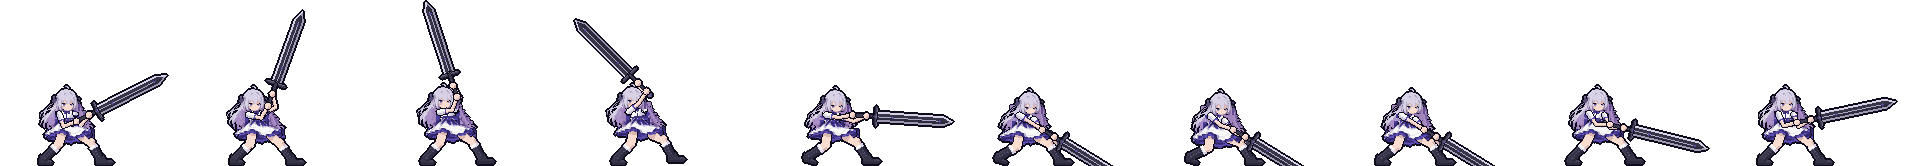
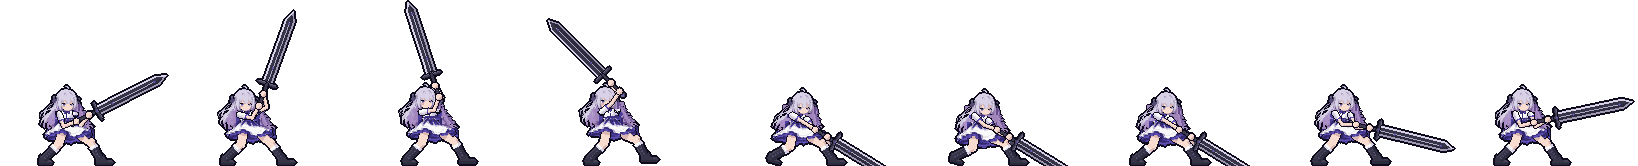
Motion-blur arc on the impact frame; remove the chop frame
User request. The impact frame now carries the smear swept from the
high guard, and the separate chop frame is gone (9 frames). README
table and docs previews updated. All checks and tests pass.

Claude-Session: https://claude.ai/code/session_01JHUM6eCZeNg5SQsGEDiuQ7

Changed region(s): [[0.2179, 0.0, 1.0, 1.0], [0.0, 0.0602, 0.1868, 1.0]]

diff --git a/swingkit/anim.py b/swingkit/anim.py
@@ -1,10 +1,10 @@
-"""Pose specifications for the 10-frame overhead chop and the character renderer.
+"""Pose specifications for the 9-frame overhead chop and the character renderer.
 
 Structure (user request, 2026-09-28):
   1 plow (Pflug guard, held) | 2-3 raise the sword | 4 high guard (held, glint) |
-  5 chop: one fast frame with a motion-blur smear | 6 impact: steady, unblurred low point with
-  flash, dirt eruption and camera shake | 7-8 debris settles while the pose holds |
-  9-10 pull the blade free and return to plow (loops to frame 1).
+  5 impact: the low point with the motion-blur arc from the high guard, flash, dirt eruption and
+  camera shake | 6-7 debris settles while the pose holds | 8-9 pull the blade free and return to
+  plow (loops to frame 1).
 """
 import numpy as np
 from . import rig
@@ -54,17 +54,16 @@ F(name='raise2', ms=80, theta=108, sway=1, elbows='fwd', order=HIGH)
 # 4 HIGH GUARD - fists just above and in front of the forehead, elbows bent, blade pointing up
 # and back at 45 degrees, torso bent back
 F(name='high', ms=250, theta=135, sway=0, elbows='fwd', order=HIGH, glint=True)
-# 5 CHOP - one fast frame: arms thrown forward, the blade blurred through the whole arc
-F(name='chop', ms=40, theta=-4, sway=-3, smear_from='high')
-# 6 IMPACT - steady, unblurred low point: the near shoulder, straight near arm, grip and blade form
-# one line; rear hand by the pommel, lead hand below the guard; flash, dirt and camera shake
-F(name='impact', ms=120, theta=-31.7, sway=-1)
-# 7-8 hold on the buried blade while the dirt comes down; hair overshoots then settles
+# 5 IMPACT - the low point: the near shoulder, straight near arm, grip and blade form one line;
+# rear hand by the pommel, lead hand below the guard. The motion-blur arc from the high guard
+# trails the blade; flash, dirt and camera shake
+F(name='impact', ms=120, theta=-31.7, sway=-1, smear_from='high')
+# 6-7 hold on the buried blade while the dirt comes down; hair overshoots then settles
 F(name='plume', ms=100, theta=-31.7, sway=2)
 F(name='settle', ms=120, theta=-31.7, sway=0)
-# 9 RETURN 1 - pull the blade free, arms bend again
+# 8 RETURN 1 - pull the blade free, arms bend again
 F(name='return1', ms=110, theta=-14, sway=-1)
-# 10 RETURN 2 - ease back into plow (loops to frame 1)
+# 9 RETURN 2 - ease back into plow (loops to frame 1)
 F(name='return2', ms=130, theta=12, sway=1, far=dict(sleeve=2.5, rs=2.6))
 
 # ---------------------------------------------------------------- hips (step 2)
@@ -78,7 +77,6 @@ HIPS = dict(
     raise1=dict(hip=(-1, 1), torso=(0, 0), head=(0, 0), lean=-1, bend=-3),
     raise2=dict(hip=(-1, 0), torso=(0, -1), head=(0, -1), lean=-1, bend=-6),
     high=dict(hip=(-2, 0), torso=(0, -1), head=(0, -1), lean=-2, bend=-8),
-    chop=dict(hip=(1, 2), torso=(0, 0), head=(0, 0), lean=2, bend=12),
     impact=dict(hip=(2, 3), torso=(0, 0), head=(0, 0), lean=2, bend=20),
     plume=dict(hip=(2, 4), torso=(0, 0), head=(0, 0), lean=2, bend=22),
     settle=dict(hip=(2, 3), torso=(0, 0), head=(0, 0), lean=2, bend=20),   # stays down while the blade is buried
@@ -102,7 +100,7 @@ def _rebase(fr, spec):
 
 # ---------------------------------------------------------------- footwork (step 3)
 # Front (right) foot: planted, lifts and draws back as weight rocks onto the rear leg during the
-# raise, travels forward with the chop, stomps down 4 px forward at impact, then steps back during
+# raise, stomps down 4 px forward at impact, then steps back during
 # the return so the loop closes in plow. The rear foot never moves. 'planted' feet must sit
 # exactly on the ground (ankle row unchanged).
 R0 = rig.LEG_NEUTRAL['right']['ankle']
@@ -111,7 +109,6 @@ FEET = dict(
     raise1=dict(right=(R0[0], R0[1]), planted=True),
     raise2=dict(right=(R0[0] - 0.5, R0[1] - 1.5), planted=False),
     high=dict(right=(R0[0] - 1.0, R0[1] - 3.0), planted=False),
-    chop=dict(right=(R0[0] + 3.0, R0[1] - 1.0), planted=False),
     impact=dict(right=(R0[0] + 4.0, R0[1]), planted=True),
     plume=dict(right=(R0[0] + 4.0, R0[1]), planted=True),
     settle=dict(right=(R0[0] + 4.0, R0[1]), planted=True),
@@ -127,7 +124,6 @@ CLOTH = dict(
     raise1=dict(lift=1, trail=1, flare=0),
     raise2=dict(lift=1, trail=1, flare=1),
     high=dict(lift=3, trail=0, flare=1),
-    chop=dict(lift=3, trail=-2, flare=1),
     impact=dict(lift=1, trail=-1, flare=3),
     plume=dict(lift=-1, trail=1, flare=1),
     settle=dict(lift=0, trail=0, flare=0),
@@ -143,7 +139,6 @@ HAIR = dict(
     raise1=dict(sway=1, lift=-1),
     raise2=dict(sway=2, lift=-1),
     high=dict(sway=1, lift=1),
-    chop=dict(sway=-4, lift=3),
     impact=dict(sway=-2, lift=2),
     plume=dict(sway=3, lift=-1),
     settle=dict(sway=0, lift=0),
@@ -155,7 +150,7 @@ HAIR = dict(
 # gaze: -1 chin up / eyes up (watching the blade rise), +1 chin tucked / eyes down (driving
 # the strike), 0 neutral. (A physical 1 px head tuck was tried and removed: it pushes the chin
 # onto the near arm at impact.)
-GAZE = dict(plow=0, raise1=0, raise2=-1, high=-1, chop=1, impact=1, plume=1, settle=0,
+GAZE = dict(plow=0, raise1=0, raise2=-1, high=-1, impact=1, plume=1, settle=0,
             return1=0, return2=0)
 
 # ---------------------------------------------------------------- shoulders (step 10)
@@ -168,7 +163,6 @@ SHOULDERS = dict(
     raise1=dict(far=(0, -0.5)),
     raise2=dict(near=(0, -1.0), far=(0, -1.5)),
     high=dict(near=(0, -2.0), far=(0.5, -2.0), far_sleeve=1.0),
-    chop=dict(near=(0.5, 1.0), far=(0.5, 0.5), near_sleeve=-0.5),
     impact=dict(near=(1.0, 1.5), far=(0.5, 1.0), near_sleeve=-1.0, rs=0.4),
     plume=dict(near=(1.0, 1.5), far=(0.5, 1.0), near_sleeve=-1.0, rs=0.4),
     settle=dict(near=(1.0, 1.5), far=(0.5, 1.0), near_sleeve=-0.5, rs=0.2),   # still braced on the buried blade
@@ -177,9 +171,9 @@ SHOULDERS = dict(
 )
 
 # ---------------------------------------------------------------- rear heel (step 11)
-# The rear (left) heel lifts while the weight transfers forward (chop and impact) and she pivots
+# The rear (left) heel lifts while the weight transfers forward (impact) and she pivots
 # on the toe. In the high guard the front foot is in the air, so the rear heel stays down.
-REAR_HEEL_UP = {'chop', 'impact', 'plume'}
+REAR_HEEL_UP = {'impact', 'plume'}
 
 
 def index(name):
@@ -194,12 +188,12 @@ FRAMES[:] = [_rebase(fr, HIPS[fr['name']]) for fr in FRAMES]
 # reach with fixed-length arms. The lead hand is GRIP_GAP (or HAND_GAP) further along the grip.
 # While the blade is buried (impact, plume, settle) the grip stays fixed in the world.
 REAR_HAND = dict(plow=(37.5, 37.4), raise1=(38.0, 22.0), raise2=(36.0, 13.0), high=(34.5, 7.5),
-                 chop=(49.5, 30.9), impact=(48.36, 45.69), plume=(48.36, 45.69),
+                 impact=(48.36, 45.69), plume=(48.36, 45.69),
                  settle=(48.36, 45.69), return1=(43.0, 40.5), return2=(39.0, 38.5))
 
 # Hand gap along the grip where a frame differs from HAND_GAP. High guard: lead hand 12 px up the
 # grip so both fists sit clear above the head. Plow and the low point: lead hand below the guard.
-GRIP_GAP = dict(plow=14.0, raise1=13.0, raise2=12.0, high=12.0, chop=14.0, impact=14.0,
+GRIP_GAP = dict(plow=14.0, raise1=13.0, raise2=12.0, high=12.0, impact=14.0,
                 plume=14.0, settle=14.0, return1=14.0, return2=14.0)
 
 def apply_grip(fr, Hl):

diff --git a/swingkit/composite.py b/swingkit/composite.py
@@ -50,7 +50,7 @@ def render_frame(i, parts_out=None):
     I = fx.impact_point()
     T = impact_times()
     if fr.get('glint'): fx.glint(front, fr)
-    if 'smear_from' in fr:          # the chop: one blurred frame through the whole arc
+    if 'smear_from' in fr:          # motion-blur arc swept by the blade from the high guard
         fx.smear(back, anim.by_name(fr['smear_from']), fr, u_head=40)
     if name == 'impact':
         fx.crown(front, I); fx.mound(front, I)

diff --git a/README.md b/README.md
@@ -1,6 +1,6 @@
 # Biboo
 
-Procedural pixel-art pipeline for a 10-frame greatsword chop in a sunset side-scroller scene.
+Procedural pixel-art pipeline for a 9-frame greatsword chop in a sunset side-scroller scene.
 One command rebuilds everything: the tileable background layers, the character sprite frames,
 the effect overlays, a scene manifest for a game engine, and the preview GIFs.
 
@@ -38,9 +38,9 @@ pytest
 | Path | Contents |
 |---|---|
 | `swing_x3.gif`, `swing_x1.gif` | The looping animation, exact palette, no dithering |
-| `frames/` | The 10 composited frames, 384x216 |
+| `frames/` | The 9 composited frames, 384x216 |
 | `layers/` | `sky`, `mountains_far`, `mountains_near`, `trees_back`, `trees_front`, `ground`, `fringe`. Each is 384 wide and tiles seamlessly in x, with 8 margin rows above and below the view for camera shake |
-| `character/` | 10 transparent sprite frames sharing one crop box and anchor, plus `char_sheet.png` |
+| `character/` | 9 transparent sprite frames sharing one crop box and anchor, plus `char_sheet.png` |
 | `fx_back/`, `fx_front/` | Per-frame effect overlays (smears behind the character; glint, flash, dust, debris in front) |
 | `scene_manifest.json` | Layer order and parallax factors, ground line, sprite anchor, per-frame timing, sword angle and camera shake |
 | `contact_sheet.png` | All frames at a glance |
@@ -58,12 +58,11 @@ measurements, never scaled, so proportions stay identical.
 | 1 | plow | 320 | Plow guard (Pflug): hands low at the hip, blade angled up at the opponent's face, knees bent |
 | 2-3 | raise1, raise2 | 90, 80 | Both hands lift the sword past vertical; weight rocks back, front foot lifts, eyes look up |
 | 4 | high | 250 | High guard: fists above and in front of the forehead, blade up and back at 45 degrees, glint |
-| 5 | chop | 40 | One fast frame: arms thrown forward, the blade blurred through the whole arc (smear) |
-| 6 | impact | 120 | Steady, unblurred low point: shoulder, straight arm and blade in one line, blade buried, front foot stomps 4 px forward, flash, dirt eruption, camera shake |
-| 7-8 | plume, settle | 100, 120 | Dust plume and debris come down; body stays braced low on the buried blade, shake decays |
-| 9-10 | return1, return2 | 110, 130 | Blade pulled free, front foot steps back, ease into plow (frame 1) |
+| 5 | impact | 120 | Low point: shoulder, straight arm and blade in one line, blade buried, motion-blur arc swept from the high guard, front foot stomps 4 px forward, flash, dirt eruption, camera shake |
+| 6-7 | plume, settle | 100, 120 | Dust plume and debris come down; body stays braced low on the buried blade, shake decays |
+| 8-9 | return1, return2 | 110, 130 | Blade pulled free, front foot steps back, ease into plow (frame 1) |
 
-Techniques: the fast part of the swing is carried by one smear frame instead of in-between poses;
+Techniques: the fast part of the swing is carried by a motion-blur arc on the impact frame instead of in-between poses;
 the hands go over the head in the high guard and the arms straighten into a full forward extension on
 the way down. The rear hand holds the base of the handle, just above the pommel, in every frame
 (`anim.REAR_HAND`, `anim.GRIP_SPAN`), with the lead hand up the grip by `anim.GRIP_GAP` (below the guard in plow and the strike).

diff --git a/Current_Work.md b/Current_Work.md
@@ -343,6 +343,7 @@ by this request, because the arms now rise over the head.
 - Ready is now Plow (blade 27 degrees up, hands at the hip). The dip (blade -6, hands at chest) and recover2 (blade 0) still match the old ready pose, so they jump. Re-pose them to lead into and out of Plow? (asked 2026-09-28)
 
 ## Log
+- 2026-09-28: User request: the motion-blur arc moved onto the impact frame (smear from the high guard) and the chop frame deleted; 9 frames. (Claude)
 - 2026-09-28: User request: all other poses deleted; the animation is now 10 frames: plow, raise1, raise2, high, chop (one smear frame from the high guard), impact (steady, unblurred low point with flash, dirt and shake), plume, settle, return1, return2 (loops to plow). Frame names changed everywhere (anim tables, composite effects and shake); README table and docs previews updated. Step 28 is superseded by this frame list. (Claude)
 - 2026-09-28: Skirt rebuilt as two layers (user). `rig.SKIRT_FRONT` ends at the front hem (`rig.FRONT_HEM`, just above where each thigh shows) and is drawn over the legs; `rig.SKIRT_BACK` is the inside of the back skirt, rebuilt across the full width from the visible back columns and drawn behind the legs, so moving legs never open holes. It replaces `UNDERSKIRT`. Mask fixes: the skirt's left flare was inside the left-hair box, and the back skirt's bottom rows 57-59 were dropped as legs. (Claude)
 - 2026-09-28: User-approved low point applied to impact, plume1 and settle: near shoulder, straight near arm, grip and blade on one line (theta -31.7, rear hand 48.36, 45.69, lead hand 14 px up the grip); settle now holds impact's bend and shoulder drop so the arms stay in reach. Plow: lead arm drawn behind the skirt too, so the elbow no longer sticks out. (Claude)
